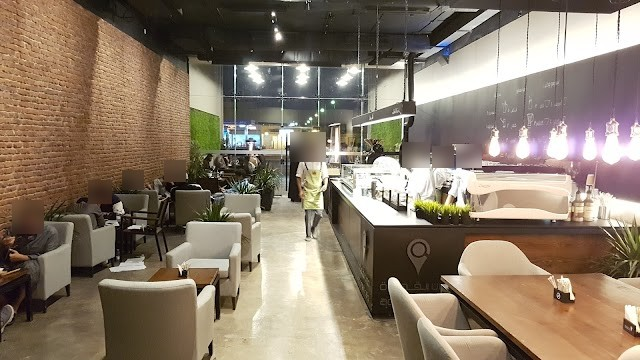
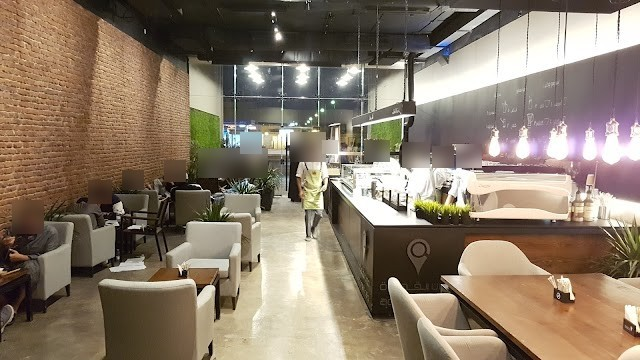
FH1 r2: LAMMAH «لمة كافيه», Brewd rename, far-face blurs (QA #307 r1)

Changed region(s): [[0.3125, 0.3667, 0.4375, 0.5194], [0.5625, 0.3667, 0.625, 0.4583], [0.5, 0.3667, 0.5312, 0.4278]]

diff --git a/scripts/check-chains.ts b/scripts/check-chains.ts
@@ -1219,14 +1219,14 @@ for (const [ask, id] of [
 }
 // FH1 Al Fayha (31 Oct 2026): 9 local specialty cafés from Scout's daily hunt (no chain, no drive-through). Scout's Places frames (18), 0 Dev Places calls.
 // Coffee Address stays specialty (Amjad carve-out): two Al Fayha pins, told apart by branchEn/branchAr (Haroon Al Rashid Rd, Al Imam Al Shafei St) and street-qualified asks.
-// VASE Fayha is the 2nd branch of the live VASE Al Manar and reuses its mark. VELU, REXSA, TASTY PORTAL and LAMMAH carry new marks; MooD INTERFACE and Brood are letter tiles.
+// VASE Fayha is the 2nd branch of the live VASE Al Manar and reuses its mark. VELU, REXSA, TASTY PORTAL and LAMMAH carry new marks; MooD INTERFACE and Brewd are letter tiles. Brewd's sign reads "Brewd" / «بروود»; LAMMAH is «لمة كافيه» so bare «لمة» stays generic.
 {
-  const fh1Ids = ["velu-al-fayha", "rexsa-al-fayha", "vase-coffee-al-fayha", "coffee-address-al-fayha-haroon-al-rashid", "coffee-address-al-fayha-al-shafei", "lammah-al-fayha", "tasty-portal-al-fayha", "mood-interface-al-fayha", "brood-al-fayha"] as const;
+  const fh1Ids = ["velu-al-fayha", "rexsa-al-fayha", "vase-coffee-al-fayha", "coffee-address-al-fayha-haroon-al-rashid", "coffee-address-al-fayha-al-shafei", "lammah-al-fayha", "tasty-portal-al-fayha", "mood-interface-al-fayha", "brewd-al-fayha"] as const;
   const fh1 = fh1Ids.map((id) => getShop(id));
   assert(fh1.every((row) => row && row.isChain !== true && !row.chainBrand && row.neighborhood === "al-fayha" && row.neighborhoodAr === "الفيحاء" && row.catalogLane !== "drive-through" && !row.momentTags.includes("drive-through")), "FH1: 9 local Al Fayha cafés, no chain, no drive-through");
   assert(fh1.filter((row) => row!.dineIn !== true).map((row) => row!.id).join(",") === "rexsa-al-fayha" && getShop("rexsa-al-fayha")?.dineIn == null, "FH1: Places dineIn true for 8; REXSA's Places dineIn is empty and stays null");
-  const tiles = ["mood-interface-al-fayha", "brood-al-fayha"];
-  assert(fh1.every((row) => (tiles.includes(row!.id) ? !row!.logoUrl : !!row!.logoUrl)), "FH1: 2 letter tiles (MooD INTERFACE, Brood); the other 7 carry a logo");
+  const tiles = ["mood-interface-al-fayha", "brewd-al-fayha"];
+  assert(fh1.every((row) => (tiles.includes(row!.id) ? !row!.logoUrl : !!row!.logoUrl)), "FH1: 2 letter tiles (MooD INTERFACE, Brewd); the other 7 carry a logo");
   for (const id of ["velu-al-fayha", "rexsa-al-fayha", "tasty-portal-al-fayha", "lammah-al-fayha"]) {
     assert(getShop(id)?.logoUrl === `/logos/${id}.png` && existsSync(join(process.cwd(), "public", "logos", `${id}.png`)), `${id} ships its mark`);
   }
@@ -1259,10 +1259,10 @@ for (const [ask, id] of [
     ["vase-coffee-al-fayha", ["vase fayha", "vase coffee fayha", "vase al fayha", "ڤازا الفيحاء", "فازا الفيحاء"]],
     ["coffee-address-al-fayha-haroon-al-rashid", ["coffee address haroon", "coffee address haroon al rashid", "coffee address harun al rashid", "coffee address fayha haroon", "عنوان القهوة هارون الرشيد", "عنوان القهوة هارون"]],
     ["coffee-address-al-fayha-al-shafei", ["coffee address shafei", "coffee address al shafei", "coffee address imam shafei", "coffee address fayha shafei", "عنوان القهوة الشافعي", "عنوان القهوة الامام الشافعي"]],
-    ["lammah-al-fayha", ["LAMMAH Cafe", "lammah", "lammah cafe", "لمة", "لمة كافيه", "قهوة لمة"]],
+    ["lammah-al-fayha", ["LAMMAH Cafe", "lammah", "lammah cafe", "لمة كافيه", "لمه كافيه", "قهوة لمة"]],
     ["tasty-portal-al-fayha", ["TASTY PORTAL", "tasty portal", "تيستي بورتل", "بورتل"]],
     ["mood-interface-al-fayha", ["MooD INTERFACE", "mood interface", "واجهة الكيف", "قهوة واجهة الكيف"]],
-    ["brood-al-fayha", ["Brood Coffee", "brood", "brood cafe", "بروود", "قهوة بروود", "brewd"]],
+    ["brewd-al-fayha", ["Brewd Coffee", "brewd", "brewd coffee", "brewd cafe", "brood", "brood coffee", "brood cafe", "بروود", "قهوة بروود"]],
   ] as const) {
     for (const ask of asks) {
       const hits = matchCatalogShops(ask, listRealShops()).map((shop) => shop.id);
@@ -1284,7 +1284,7 @@ for (const [ask, id] of [
     assert(!hits.includes("coffee-address-al-fayha-haroon-al-rashid") && !hits.includes("coffee-address-al-fayha-al-shafei"), `bare ${ask} does not list an Al Fayha Coffee Address row, got ${hits.join(",")}`);
   }
   // Single words of the new names are everyday words and never pin an FH1 café.
-  for (const ask of ["tasty", "tasty coffee", "portal", "تيستي", "mood", "good mood", "coffee mood", "interface", "واجهة", "كيف", "الكيف", "كيف حالك", "قهوة الكيف", "fayha", "الفيحاء", "قهوة في الفيحاء"]) {
+  for (const ask of ["tasty", "tasty coffee", "portal", "تيستي", "mood", "good mood", "coffee mood", "interface", "واجهة", "كيف", "الكيف", "كيف حالك", "قهوة الكيف", "fayha", "الفيحاء", "قهوة في الفيحاء", "لمة", "لمه", "لمّة", "لمة حلوة", "لمة اصحاب", "لمة الاصحاب", "لمة عائلية", "لمة العيلة", "لمة شباب", "جلسة لمة", "مكان لمة", "كافيه لمة حلوة", "لمة بنات"]) {
     const hits = matchCatalogShops(ask, listRealShops()).map((shop) => shop.id);
     assert(!hits.some((id) => (fh1Ids as readonly string[]).includes(id)), `${ask} does not pin an FH1 café, got ${hits.join(",")}`);
   }
@@ -2507,7 +2507,7 @@ assert(
 }
 const copyHash = createHash("sha256").update(copyBlob).digest("hex");
 assert(
[2 lines of base64/hex data omitted]
   `district copy hash includes the house count helper: ${copyHash}`,
 );
 assert(

diff --git a/scripts/check-district-urls.ts b/scripts/check-district-urls.ts
@@ -806,7 +806,7 @@ for (const ask of ["الروابي", "روابي", "rawabi", "al rawabi", "ar-ra
 
 const fayha = filterDirectoryShops(shops, "al-fayha");
 assert(fayha.length === 12, `al-fayha has 12 shops (+ in row, trending add 18 Oct; + 9 FH1 31 Oct 2026), got ${fayha.length}`);
-for (const id of ["rukyah-al-fayha", "roof-coffee-al-fayha", "in-row-al-fayha", "velu-al-fayha", "rexsa-al-fayha", "vase-coffee-al-fayha", "coffee-address-al-fayha-haroon-al-rashid", "coffee-address-al-fayha-al-shafei", "lammah-al-fayha", "tasty-portal-al-fayha", "mood-interface-al-fayha", "brood-al-fayha"]) {
+for (const id of ["rukyah-al-fayha", "roof-coffee-al-fayha", "in-row-al-fayha", "velu-al-fayha", "rexsa-al-fayha", "vase-coffee-al-fayha", "coffee-address-al-fayha-haroon-al-rashid", "coffee-address-al-fayha-al-shafei", "lammah-al-fayha", "tasty-portal-al-fayha", "mood-interface-al-fayha", "brewd-al-fayha"]) {
   assert(fayha.some((shop) => shop.id === id), `al-fayha includes ${id}`);
 }
 assert(neighborhoodLabel("al-fayha", "ar") === "الفيحاء", "al-fayha Arabic label");
@@ -6846,7 +6846,7 @@ const scoutPack: {
     dineIn: true,
     outdoorSeating: null,
   },
-  // FH1 (31 Oct 2026, Scout daily hunt): 9 Al Fayha cafés; VASE reuses the VASE Al Manar mark and both Coffee Address rows the shared Coffee Address mark, VELU, REXSA, TASTY PORTAL and LAMMAH carry new marks, MooD INTERFACE and Brood are letter tiles. Scout's Places frames, 0 Dev Places calls.
+  // FH1 (31 Oct 2026, Scout daily hunt): 9 Al Fayha cafés; VASE reuses the VASE Al Manar mark and both Coffee Address rows the shared Coffee Address mark, VELU, REXSA, TASTY PORTAL and LAMMAH carry new marks, MooD INTERFACE and Brewd are letter tiles. Scout's Places frames, 0 Dev Places calls.
   {
     id: "velu-al-fayha",
     hex: "0x3e2f0750eb62f141:0x9388079e80f35394",
@@ -6951,7 +6951,7 @@ const scoutPack: {
     outdoorSeating: null,
   },
   {
-    id: "brood-al-fayha",
+    id: "brewd-al-fayha",
     hex: "0x3e2f07ec187614d7:0x5af465ad0d2ee9f1",
     neighborhood: "al-fayha",
     vibe: ["قهوة"],

diff --git a/lib/shop-name.ts b/lib/shop-name.ts
@@ -335,7 +335,7 @@ const EXTRA_ALIASES: Record<string, readonly string[]> = {
   "lammah-al-fayha": ["lammah coffee", "lamma cafe", "لمة كافيه", "لمه كافيه", "لمة كافي", "قهوة لمة", "لمة قهوة مختصة"],
   "tasty-portal-al-fayha": ["tasty portal cafe", "tasty portal coffee", "تيستي بورتل كافيه"],
   "mood-interface-al-fayha": ["mood interface cafe", "mood interface coffee", "واجهة الكيف كافيه", "قهوة واجهة الكيف"],
-  "brood-al-fayha": ["brood cafe", "brewd", "brewd coffee", "بروود كافيه"],
+  "brewd-al-fayha": ["brewd cafe", "brood", "brood coffee", "brood cafe", "بروود كافيه"],
 };
 
 function addAlias(into: Set<string>, raw: string): void {
@@ -454,9 +454,10 @@ const SHOP_TOKEN_BLOCK: Record<string, readonly string[]> = {
   // 21 Oct 2026: renamed to "dr.CAFE Granada Mall"; bare mall / Granada words never pin it.
   "drcafe-granada-mall-al-shohda": ["mall", "مول", "granada", "غرناطة", "granada mall", "غرناطة مول"],
   // Batch FH1 (31 Oct 2026): everyday / shared tokens never pin an Al Fayha café alone; brand-qualified names still match.
-  // VASE Fayha and «لمة» keep their names (nameAr must self-match); bare vase stays Al Manar first by catalog order.
+  // LAMMAH is «لمة كافيه»: bare «لمة» (a get-together) never pins it. VASE Fayha keeps «ڤازا» (nameAr must self-match); bare vase stays Al Manar first by catalog order.
   "coffee-address-al-fayha-haroon-al-rashid": ["address", "عنوان"],
   "coffee-address-al-fayha-al-shafei": ["address", "عنوان"],
+  "lammah-al-fayha": ["لمة", "لمه", "لمّة"],
   "tasty-portal-al-fayha": ["tasty", "portal", "تيستي"],
   "mood-interface-al-fayha": ["mood", "interface", "واجهه", "كيف", "واجهة", "الكيف"],
 };

diff --git a/scripts/check-cafe-detail.ts b/scripts/check-cafe-detail.ts
@@ -828,7 +828,7 @@ const TRENDVERIFY_1023PM_HERO_COUNTS: Record<string, number> = {
   "opulent-qurtubah": 2,
 };
 const TRENDVERIFY_1023PM_IDS = Object.keys(TRENDVERIFY_1023PM_HERO_COUNTS);
-/** FH1 Al Fayha (31 Oct 2026): Scout's 2 Places frames each, 0 Dev Places calls. Coffee Address Haroon Al Rashid frame 2 has a customer's face blurred and Coffee Address Al Shafei frame 1 has guests' and staff faces blurred. 18 frames shipped. */
+/** FH1 Al Fayha (31 Oct 2026): Scout's 2 Places frames each, 0 Dev Places calls. Coffee Address Haroon Al Rashid frame 2 has a customer's face blurred and frame 1 its far terrace patrons (r2); Coffee Address Al Shafei frame 1 has guests', staff and back-room diners' faces blurred. 18 frames shipped. */
 const FH1_FAYHA_HERO_COUNTS: Record<string, number> = {
   "velu-al-fayha": 2,
   "rexsa-al-fayha": 2,
@@ -838,7 +838,7 @@ const FH1_FAYHA_HERO_COUNTS: Record<string, number> = {
   "lammah-al-fayha": 2,
   "tasty-portal-al-fayha": 2,
   "mood-interface-al-fayha": 2,
-  "brood-al-fayha": 2,
+  "brewd-al-fayha": 2,
 };
 const FH1_FAYHA_IDS = Object.keys(FH1_FAYHA_HERO_COUNTS);
 
